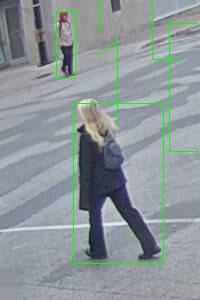
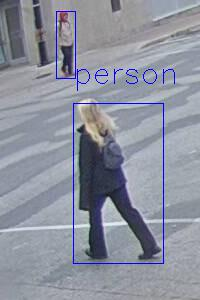
Setting up the model once only in tests

Changed region(s): [[0.27, 0.0, 1.0, 0.9], [0.48, 0.0, 0.51, 0.12]]

diff --git a/src/main/python/vision/models.py b/src/main/python/vision/models.py
@@ -12,6 +12,22 @@ MODEL_DIR = os.path.join(ROOT_DIR, "logs")
 # Directory containing the trained weights file
 COCO_MODEL_PATH = os.path.join(ROOT_DIR, "resources", "models", "mask_rcnn_coco.h5")
 
+class_names = ['BG', 'person', 'bicycle', 'car', 'motorcycle', 'airplane',
+               'bus', 'train', 'truck', 'boat', 'traffic light',
+               'fire hydrant', 'stop sign', 'parking meter', 'bench', 'bird',
+               'cat', 'dog', 'horse', 'sheep', 'cow', 'elephant', 'bear',
+               'zebra', 'giraffe', 'backpack', 'umbrella', 'handbag', 'tie',
+               'suitcase', 'frisbee', 'skis', 'snowboard', 'sports ball',
+               'kite', 'baseball bat', 'baseball glove', 'skateboard',
+               'surfboard', 'tennis racket', 'bottle', 'wine glass', 'cup',
+               'fork', 'knife', 'spoon', 'bowl', 'banana', 'apple',
+               'sandwich', 'orange', 'broccoli', 'carrot', 'hot dog', 'pizza',
+               'donut', 'cake', 'chair', 'couch', 'potted plant', 'bed',
+               'dining table', 'toilet', 'tv', 'laptop', 'mouse', 'remote',
+               'keyboard', 'cell phone', 'microwave', 'oven', 'toaster',
+               'sink', 'refrigerator', 'book', 'clock', 'vase', 'scissors',
+               'teddy bear', 'hair drier', 'toothbrush']
+
 # Configuration that will be used by the Mask-RCNN library
 class MaskRCNNConfig(mrcnn.config.Config):
     NAME = "coco_pretrained_model_config"
@@ -80,9 +96,10 @@ def draw_boxes(rgb_image, results_dictionary):
         y1, x1, y2, x2 = box
 
         # Draw the box
-        cv2.rectangle(bgr_image, (x1, y1), (x2, y2), (0, 255, 0), 1)
+        cv2.rectangle(bgr_image, (x1, y1), (x2, y2), (255, 0, 0), 1)
         # Annotate
-        cv2.putText(bgr_image, str(results_dictionary['class_ids'][index]) + '[ ' + str(results_dictionary['scores'][index]) + ' ]', (x1, y1 + 20), cv2.FONT_HERSHEY_SIMPLEX, 1, (255, 255, 255))
+        #cv2.putText(bgr_image, str(results_dictionary['class_ids'][index]) + '[ ' + str(results_dictionary['scores'][index]) + ' ]', (x1, y1 - 20), cv2.FONT_HERSHEY_SIMPLEX, 1, (255, 0, 0))
+        cv2.putText(bgr_image, class_names[results_dictionary['class_ids'][index]], (x1, y1 - 20), cv2.FONT_HERSHEY_SIMPLEX, 1, (255, 0, 0))
         index = index + 1
 
     return bgr_image[:, :, ::-1]

diff --git a/src/unittest/python/vision_tests.py b/src/unittest/python/vision_tests.py
@@ -17,10 +17,12 @@ section3 = skimage.io.imread(os.path.join(INPUT_DIR, "850-100-50-100.jpg"))
 
 class Test(TestCase):
 
-    def setUp(self):
-        self.model = get_trained_model()
+    @classmethod
+    def setUpClass(cls):
+        cls.model = get_trained_model()
 
-    def tearDown(self):
+    @classmethod
+    def tearDownClass(cls):
         cv2.destroyAllWindows()
 
     def test_full_image(self):
